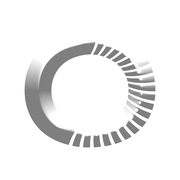
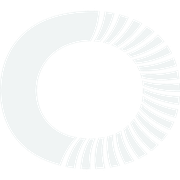
Add files via upload

Changed region(s): [[0.1111, 0.2222, 0.8889, 0.8333]]

diff --git a/index.html b/index.html
@@ -98,7 +98,7 @@ h1.hero-title{font-family:'Outfit',sans-serif;font-size:clamp(58px,8.5vw,118px);
 .port-cat-name{font-family:'Outfit',sans-serif;font-size:30px;font-weight:800;text-transform:uppercase;letter-spacing:.01em}
 .port-vid{position:relative;width:100%;padding-bottom:56.25%;background:#000;overflow:hidden;border:1px solid var(--glass-border)}
 .port-vid iframe{position:absolute;inset:0;width:100%;height:100%;border:none}
-.port-vid.vertical{max-width:340px;margin:0 auto;padding-bottom:177.77%}
+.port-vid.vertical{max-width:220px;margin:0 auto;padding-bottom:391px}
 .port-cases{display:flex;flex-wrap:wrap;gap:10px;margin-top:22px}
 .port-case-chip{padding:9px 18px;border:1px solid rgba(232,228,222,.15);color:rgba(232,228,222,.55);background:none;font-family:'DM Sans',sans-serif;cursor:pointer;font-size:11px;letter-spacing:.1em;text-transform:uppercase;transition:all .2s}
 .port-case-chip:hover{border-color:var(--gold);color:var(--gold)}